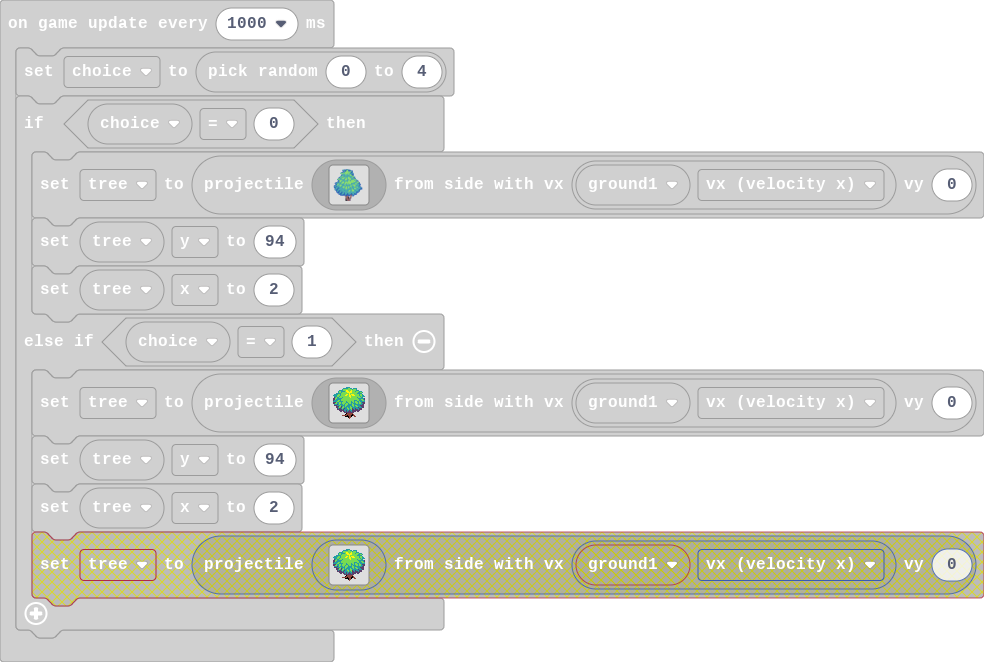
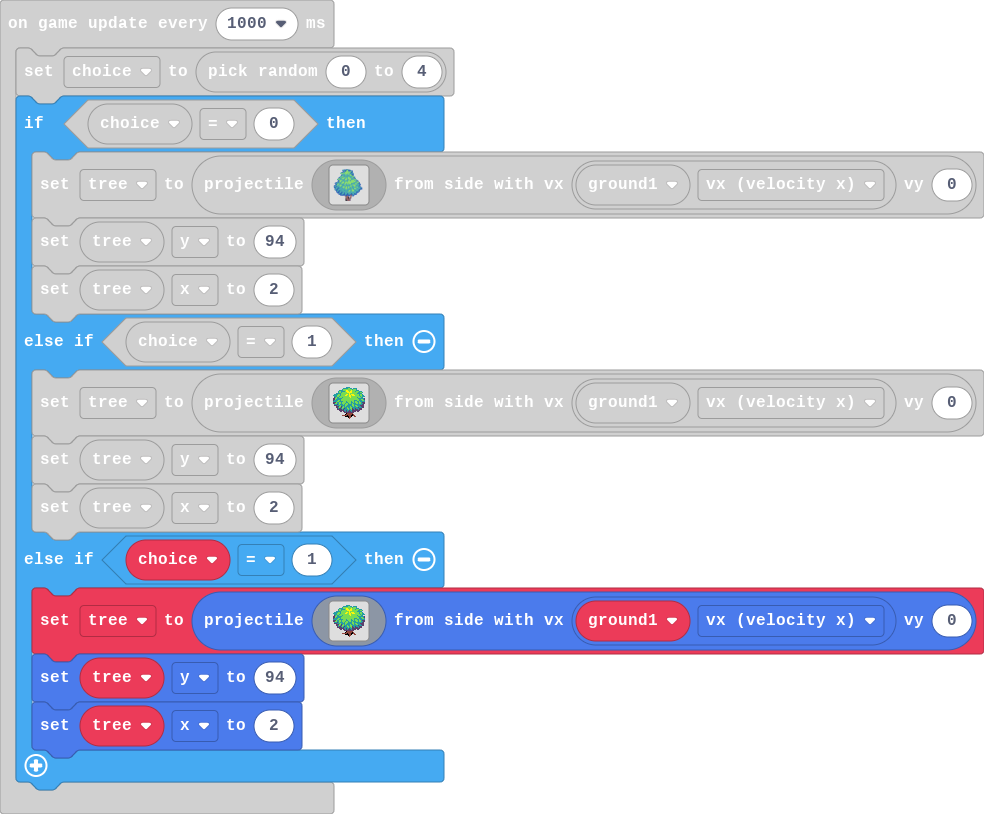
tree

diff --git a/main.ts b/main.ts
@@ -335,6 +335,43 @@ game.onUpdateInterval(1000, function () {
             `, ground1.vx, 0)
         tree.y = 94
         tree.z = 2
+    } else if (choice == 1) {
+        tree = sprites.createProjectileFromSide(img`
+            .............6666...............
+            ..........666667766.6666........
+            .........677777777767776........
+            ......66667775577757777666......
+            .....677666675557557776777666...
+            .....6776777775555577777766776..
+            ...66666777777775777777766666...
+            .66667767777755757555777776776..
+            6666777677775577557555777767766.
+            .6667767777777775577777777767666
+            .c6766777677777775777777677766..
+            cc77666667777777777777777666666c
+            cc76666677777777777777777766776c
+            c6666776777777777777766677666776
+            66667766667776777767767766766666
+            ccc76677677776677766767776776ccc
+            cc7766776777677677676667767766cc
+            .666c676667677766667766666666cc.
+            .ccc66676666776666677677666cccc.
+            ...ccc77c6767666676676677666ccc.
+            ...cc676c7766676677666666c666cc.
+            ....c6cc676c6677677c66c666ccc...
+            ....ccccc6c66667667cc6ccc6ccc...
+            ......ccccc66c66c66cccccccc.....
+            .......cc.cc6c6ccc6cccc.cc......
+            ...........cccccccccc...........
+            .............feeeeee............
+            ............feeeeeefe...........
+            .........eeeeefeeeffee..........
+            ............ffffeef..ee.........
+            ...............fee..............
+            ................e...............
+            `, ground1.vx, 0)
+        tree.y = 94
+        tree.z = 2
     }
 })
 game.onUpdateInterval(1500, function () {
